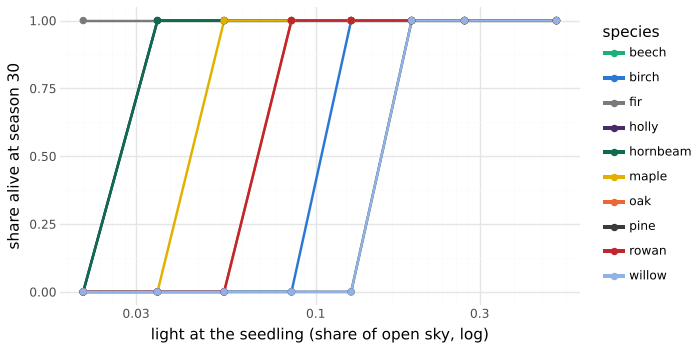
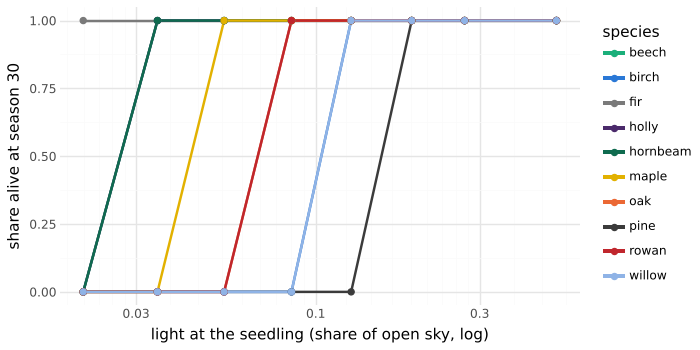
Check the M25 tolerance scores against Appendix A; willow to birch's band
Niinemets & Valladares's Appendix A (supplied by the user) confirms pine, rowan, maple and hornbeam,
but scores goat willow 2.16, just above birch's 2.03, where the model had it below. Willow now
survives birch's 13%. That let hornbeam outgrow beech in the mixed wood, against its lower score
(3.97 against 4.56), so its leaves now cost a little more than beech's. The mixed-wood and clearing
tests sum over six seeds, since single runs vary widely.

Claude-Session: https://claude.ai/code/session_01WY2dARdXcUqS9Uigs6Gdgt

diff --git a/src/core/flora.test.ts b/src/core/flora.test.ts
@@ -6,6 +6,7 @@ import { presetParams } from "./presets.ts";
 import { World } from "./world.ts";
 
 const SEEDS = [1, 2, 3];
+const SIX = [1, 2, 3, 4, 5, 6];
 const mean = (a: number[]) => a.reduce((s, x) => s + x, 0) / a.length;
 
 /** The woodland's growth rules without stand dynamics or storms (oakOpen's), for `trees`. */
@@ -181,11 +182,15 @@ describe("calibrated species (M19)", () => {
 });
 
 describe("the M25 species", () => {
-  it("orders shade tolerance pine, willow < rowan < maple < holly, hornbeam", () => {
-    // ≈ 13% of the sky: rowan waits, the pioneers starve (Pinus and Salix score lowest).
+  it("orders shade tolerance pine < willow < rowan < maple < holly, hornbeam", () => {
+    // Niinemets & Valladares 2006: pine 1.67, willow 2.16, rowan 2.73, maple 3.18, holly 3.86,
+    // hornbeam 3.97. At ≈ 13% of the sky willow and rowan wait, as birch does; pine starves.
     expect(shadeHouse("rowan", 3.3).alive).toBe(3);
-    expect(shadeHouse("willow", 3.3).alive).toBe(0);
+    expect(shadeHouse("willow", 3.3).alive).toBe(3);
     expect(shadeHouse("pine", 3.3).alive).toBe(0);
+    // ≈ 8%: rowan still lives; willow, a pioneer, does not.
+    expect(shadeHouse("rowan", 4).alive).toBe(3);
+    expect(shadeHouse("willow", 4).alive).toBe(0);
     // ≈ 5%: field maple, mid-tolerant, lives; rowan does not.
     expect(shadeHouse("maple", 4.8).alive).toBe(3);
     expect(shadeHouse("rowan", 4.8).alive).toBe(0);
@@ -226,6 +231,9 @@ describe("the M25 species", () => {
   });
 
   it("lets the mixed wood's pioneers give way to beech, with holly and hornbeam beneath", () => {
+    // Totals over six seeds: single runs vary widely (one grows no beech, another keeps its
+    // pioneers in storm gaps). Measured: birch and willow 19 canopy trees at season 50, 6 at 400;
+    // beech 13 and hornbeam 9 at 400.
     const canopy = (world: World) =>
       world.trees.filter((t) => t.alive && treeMetrics(t, world).height >= 30);
     const of = (trees: World["trees"], sp: string[]) =>
@@ -233,32 +241,32 @@ describe("the M25 species", () => {
     let early = 0;
     let late = 0;
     let beech = 0;
+    let hornbeam = 0;
     let shadeBearers = 0;
-    for (const seed of SEEDS) {
+    for (const seed of SIX) {
       const world = new World(presetParams("mixedWood", seed));
       world.run(50);
       early += of(canopy(world), ["birch", "willow"]);
-      world.run(300);
+      world.run(350);
       const trees = canopy(world);
       late += of(trees, ["birch", "willow"]);
       beech += of(trees, ["beech"]);
+      hornbeam += of(trees, ["hornbeam"]);
       shadeBearers += of(
         world.trees.filter((t) => t.alive),
         ["holly", "hornbeam"],
       );
     }
-    // Measured (10 seeds, with seed rain): birch and willow 2.8 canopy trees a run at season 50,
-    // 0.1 at 350; beech 3.1 at 350, the most of any species; holly and hornbeam 6.8 live trees.
-    expect(late).toBeLessThan(0.4 * early);
-    expect(beech).toBeGreaterThanOrEqual(SEEDS.length);
-    expect(shadeBearers).toBeGreaterThanOrEqual(2 * SEEDS.length);
-  });
+    expect(late).toBeLessThan(0.5 * early);
+    expect(beech).toBeGreaterThan(hornbeam);
+    expect(shadeBearers).toBeGreaterThanOrEqual(2 * SIX.length);
+  }, 90_000);
 
   it("brings goat willow back to a clearing only through seed rain (ADR 0018)", () => {
     // An old mixed wood, a 60-cell clearing felled at season 300, then 40 seasons. Measured
-    // (6 seeds): no willow in any clearing without rain, 1–2 in every one with it.
+    // (six seeds): 9 willows in all with rain, in 4 of the 6 clearings; none without.
     const willows = (rain: boolean) =>
-      SEEDS.map((seed) => {
+      SIX.reduce((sum, seed) => {
         const params = presetParams("mixedWood", seed);
         if (!rain)
           for (const sp of Object.values(params.species ?? {}))
@@ -268,11 +276,14 @@ describe("the M25 species", () => {
         for (const t of world.trees)
           if (t.alive && t.rootX >= 60 && t.rootX < 120) world.removeTree(t.id);
         world.run(40);
-        return world.trees.filter(
-          (t) => t.alive && t.rootX >= 55 && t.rootX < 125 && t.species === "willow",
-        ).length;
-      });
-    for (const n of willows(false)) expect(n).toBe(0);
-    for (const n of willows(true)) expect(n).toBeGreaterThanOrEqual(1);
-  });
+        return (
+          sum +
+          world.trees.filter(
+            (t) => t.alive && t.rootX >= 55 && t.rootX < 125 && t.species === "willow",
+          ).length
+        );
+      }, 0);
+    expect(willows(false)).toBe(0);
+    expect(willows(true)).toBeGreaterThanOrEqual(4);
+  }, 120_000);
 });

diff --git a/src/core/flora.ts b/src/core/flora.ts
@@ -18,9 +18,10 @@
  *   young; oak and beech make few heavy seeds that land close, and beech establishes in shade.
  *
  * M25 (docs/experiments/2026-10-28-m25-species.md) adds hornbeam, field maple, holly, rowan and
- * goat willow, fitted the same way, and Scots pine. Their survival lights run from willow and pine
- * (≈ 19%) through rowan (8%) and maple (5%) to hornbeam and holly (3%), in Niinemets & Valladares's
- * order; holly and hornbeam cast the deepest shade, pine and willow the lightest.
+ * goat willow, fitted the same way, and Scots pine. Niinemets & Valladares score them pine 1.67,
+ * willow 2.16, rowan 2.73, maple 3.18, holly 3.86 and hornbeam 3.97; their survival lights run
+ * from pine (19%) through willow (13%, birch's), rowan (8%) and maple (5%) to hornbeam and holly
+ * (3%). Holly and hornbeam cast the deepest shade, pine and willow the lightest.
  *
  * Labels are the field guide's: a common name, a Latin name and the leaf style the page draws.
  * Fir and pine are lab species; the home forest (`mixedWood`) mixes the other nine.
@@ -147,7 +148,8 @@ export const FLORA = {
     latin: "Carpinus betulus",
     leaf: "hornbeam",
     c5: { enabled: true, T: 0.01, Trel: 0.02 },
-    r1: { mf: 0.04, Lh: 50 },
+    // Costlier leaves than beech's: less tolerant (3.97 against 4.56), so beech outgrows it in shade.
+    r1: { mf: 0.045, Lh: 50 },
     // Troll's model, like beech (Hallé et al. 1978), with weaker apical control.
     r2: {
       enabled: true,
@@ -267,7 +269,8 @@ export const FLORA = {
       ],
     },
     r4: { qRel: 0.3 },
-    r6: { enabled: true, qMin: 0.15, leafArea: 1.5 },
+    // Survives birch's shade, no deeper: Niinemets & Valladares score it 2.16, birch 2.03.
+    r6: { enabled: true, qMin: 0.12, leafArea: 1.5 },
     // Tiny plumed seeds blow far but need bare, lit ground; a short life. Seed rain (ADR 0018)
     // brings willow back to clearings after it has died out in the wood.
     o4: { cSeed: 1.5, d: 60, qEst: 0.3, pEst: 0.3, m0: 0.012, rain: 1 },

diff --git a/docs/experiments/2026-10-28-m25-species.md b/docs/experiments/2026-10-28-m25-species.md
@@ -4,7 +4,7 @@
 Can six more species be fitted the M19 way, from per-tree patches alone (ADR 0016)? The six are hornbeam, field maple, holly, rowan and goat willow for the home forest, and Scots pine for the lab. Then, with no scripting, does a wood of nine of them sort itself the way mixed lowland woods do?
 
 Expected beforehand:
-- **Shade survival order:** pine ≈ willow < birch < oak ≈ rowan < maple < hornbeam ≈ holly ≈ beech.
+- **Shade survival order:** pine < birch ≈ willow < oak ≈ rowan < maple < holly ≈ hornbeam < beech.
 - **Stand floors:** deep shade under hornbeam and holly, light shade under pine and willow.
 - **Form:** a broad, low willow; a round maple; a conical holly; steep rowan limbs; pine with a high crown in a stand.
 - **The mixed wood:** pioneers (birch, willow) lead early and fade. Beech takes the canopy, with hornbeam beside it. Holly, rowan and maple hold on beneath and in gaps.
@@ -13,7 +13,7 @@ Expected beforehand:
 
 | Pattern | Target | Source |
 |---|---|---|
-| Shade-tolerance score (0–5) | Pinus sylvestris ≈ 1.7, Salix caprea ≈ 2, Betula 2.03, Quercus robur 2.45, Sorbus aucuparia ≈ 2.7, Acer campestre ≈ 3.2, Carpinus betulus ≈ 4, Ilex aquifolium ≈ 4, Fagus 4.56, Abies 4.6 | Niinemets & Valladares 2006, Appendix A. The new species' values are approximate: the appendix (esapubs.org) could not be reached from this session. **Verify before quoting.** |
+| Shade-tolerance score (1–5, ± SE) | Pinus sylvestris 1.67 ± 0.33, Betula pendula 2.03 ± 0.09, Salix caprea 2.16 ± 0.08, Quercus robur 2.45 ± 0.28, Sorbus aucuparia 2.73 ± 0.21, Acer campestre 3.18 ± 0.14, Ilex aquifolium 3.86 ± 0.19, Carpinus betulus 3.97 ± 0.12, Fagus sylvatica 4.56 ± 0.11, Abies alba 4.6 ± 0.06 | Niinemets & Valladares 2006, Appendix A (Ecological Archives M076-020-A1, supplied by the user) |
 | Holly seedlings | tolerate moderate shade, not deep shade: high mortality at 1% light, best survival at 12% (continental Spain; a facultative understorey tree in oceanic climates) | [Valladares et al. 2005](https://consensus.app/papers/details/b57cf88dba3b59e6bcdc75ade4c09517/?utm_source=claude_desktop) |
 | Hornbeam against beech and oak | after storm gaps, beech and hornbeam saplings outnumber oak's about 9 to 1 | [Dietz et al. 2022](https://consensus.app/papers/details/38777eeceab856b89abbad1009ca8e63/?utm_source=claude_desktop) |
 | Hornbeam against beech | hornbeam grows far more slowly than beech and is the weaker competitor; it is abundant in advance regeneration but recruits poorly to the canopy | [Szwagrzyk et al. 2012](https://consensus.app/papers/details/df480fb3180f5d3399da47b94410b17c/?utm_source=claude_desktop) |
@@ -36,7 +36,8 @@ The settings are M19's (`oakOpen` principles, 5 seeds each): a lone tree on 160 
 
   | Species | Q_ss |
   |---|---|
-  | willow, pine | 0.15 |
+  | pine | 0.15 |
+  | willow | 0.12 (birch's) |
   | rowan | 0.06 |
   | maple | 0.045 |
   | hornbeam, holly | 0.03 |
@@ -46,7 +47,7 @@ The settings are M19's (`oakOpen` principles, 5 seeds each): a lone tree on 160 
   - pine 3.8 and 0.09;
   - rowan 3.6 and 0.08;
   - maple 3.2 and 0.05;
-  - hornbeam 3 and 0.04;
+  - hornbeam 3 and 0.045 (beech's m_f is 0.035);
   - holly 2.6 and 0.03: evergreen leaves live several years, so their cost each season is low.
 - **Height,** through L_h: willow 30, holly 25 (with a low α), rowan 38, maple 45, hornbeam 50, pine 60. The small trees also mature small (`r1.maturity` 20–30, against the woodland's 40), so they seed.
 - **Form:**
@@ -70,11 +71,11 @@ The settings are M19's (`oakOpen` principles, 5 seeds each): a lone tree on 160 
 | Oak | 75 | 1.66 | 42 | 56° | 75 | 75 | 0.38 | 6% | 8% |
 | Beech | 84 | 1.06 | 40 | 57° | 79 | 68 | 0.47 | 3.4% | 3% |
 | Fir | 110 | 0.41 | 49 | 75° | 84 | 65 | 0.76 | 6% | 2% |
-| **Hornbeam** | 62 | 1.46 | 37 | 54° | 64 | 61 | 0.31 | 2.4% | 3% |
+| **Hornbeam** | 61 | 1.47 | 37 | 54° | 63 | 61 | 0.26 | 2.7% | 3% |
 | **Field maple** | 63 | 1.02 | 58 | 44° | 56 | 70 | 0.53 | 4.0% | 5% |
 | **Holly** | 63 | 0.49 | 55 | 65° | 54 | 62 | 0.76 | 2.4% | 3% |
 | **Rowan** | 65 | 0.73 | 68 | 39° | 54 | 74 | 0.60 | 10% | 8% |
-| **Goat willow** | 44 | 2.31 | 29 | 53° | 43 | 40 | 0.48 | 13% | 19% |
+| **Goat willow** | 40 | 2.32 | 27 | 51° | 44 | 42 | 0.47 | 12% | 13% |
 | **Scots pine** | 75 | 0.86 | 39 | 71° | 67 | 54 | 0.37 | 17% | 19% |
 
 (Floors are from 3 seeds, the scratch harness that `flora.test.ts` mirrors; everything else is from 5.)
@@ -85,8 +86,8 @@ The settings are M19's (`oakOpen` principles, 5 seeds each): a lone tree on 160 
 
   | Lowest light all seedlings survive | Species |
   |---|---|
-  | 19% | pine, willow |
-  | 13% | birch |
+  | 19% | pine |
+  | 13% | birch, willow |
   | 8% | rowan, oak |
   | 5% | maple |
   | 3% | hornbeam, holly, beech |
@@ -94,14 +95,14 @@ The settings are M19's (`oakOpen` principles, 5 seeds each): a lone tree on 160 
 
   Holly survives 3% but not 2%, in line with Valladares et al. (high mortality at 1%).
 - **Floors.**
-  - Hornbeam and holly cast the deepest shade of all (2.4%).
-  - Pine (17%) and willow (13%) let the most through, after birch (19%).
+  - Holly (2.4%) and hornbeam (2.7%) cast the deepest shade of all.
+  - Pine (17%) and willow (12%) let the most through, after birch (19%).
 - **Form.**
-  - Willow is the broadest tree (W/H 2.3) and the squattest (H/D 29).
+  - Willow is the broadest tree (W/H 2.3) and the squattest (H/D 27).
   - Holly is a narrow cone (W/H 0.49) that keeps three quarters of its stem in crown, even in a stand.
   - Maple is round (W/H 0.97), and rowan's limbs are the steepest (39°).
   - Pine stands lift their crowns (crown ratio 0.37), with whorled tiers at 71°.
-- **Size.** Willow is the smallest tree (44 cells, 11 m). Hornbeam, maple, holly and rowan reach 60–65 cells in the open at 60 seasons, and beech 84.
+- **Size.** Willow is the smallest tree (40 cells, 10 m). Hornbeam, maple, holly and rowan reach 60–65 cells in the open at 60 seasons, and beech 84.
 
 ![mixed wood](figures/2026-10-28-m25-mixed-wood.png)
 
@@ -109,35 +110,34 @@ The settings are M19's (`oakOpen` principles, 5 seeds each): a lone tree on 160 
 
 | Season | Beech | Birch | Hornbeam | Maple | Oak | Holly | Rowan | Willow |
 |---|---|---|---|---|---|---|---|---|
-| 50 | 0.8 | 2.2 | 0.8 | 1.0 | 0.6 | 0.4 | 0.8 | 0.8 |
-| 100 | 1.0 | 1.4 | 0.8 | 0.6 | 0.6 | 0.8 | 1.8 | 1.2 |
-| 200 | 2.6 | 1.8 | 1.6 | 0.4 | 0.6 | 0.8 | 0.6 | 0.4 |
-| 300 | 3.2 | 0.8 | 1.8 | 0.8 | 1.0 | 1.4 | 0.8 | 0.2 |
-| 400 | 3.2 | 0 | 1.8 | 0.2 | 0.8 | 1.2 | 0.2 | 0 |
+| 50 | 0.8 | 2.4 | 0.8 | 1.0 | 0.6 | 0.8 | 0.6 | 0.8 |
+| 100 | 0.8 | 1.8 | 0.8 | 0.8 | 0.6 | 0.6 | 0.8 | 0.6 |
+| 200 | 1.8 | 2.0 | 0.8 | 0.6 | 0.6 | 0.6 | 0.8 | 0.8 |
+| 300 | 2.2 | 0.6 | 1.2 | 1.4 | 0.8 | 1.4 | 0.6 | 0.8 |
+| 400 | 2.2 | 0.8 | 1.4 | 1.0 | 0.6 | 1.4 | 0.8 | 0.4 |
 
-(These are the numbers after the follow-ups below: maple's lighter crown and seed rain.)
+(These are the numbers after the follow-ups below. Single runs vary widely: over 6 seeds one grows no beech at all, and another keeps its pioneers to season 400.)
 
-- **Pioneers.** Birch leads for a century, and storm gaps keep it in the canopy to about season 300; by 400 it is gone. Goat willow holds a canopy tree or so to season 100, then lingers as small trees that seed rain brings into storm gaps.
+- **Pioneers.** Birch leads for a century, and storm gaps keep it in the canopy to about season 200; after that it hangs on at under one tree a run. Goat willow, once as shade-tolerant as birch (as its score says), keeps 0.4–0.8 small trees a run in storm gaps, fed by seed rain. Over 6 seeds, birch and willow fall from 19 canopy trees at season 50 to 6 at 400.
 - **Beech** rises steadily to the most canopy trees, with 3 more per run coming up beneath at season 400.
-- **Hornbeam** rises beside it, as in oak–hornbeam–beech woods. Its saplings are always in the understorey (Dietz et al. 2022).
+- **Hornbeam** rises beside it, as in oak–hornbeam–beech woods, but stays behind beech (13 canopy trees to 9 at season 400 over 6 seeds; Szwagrzyk et al. 2012). Its saplings are always in the understorey (Dietz et al. 2022).
 - **Field maple** holds 0.2–1 canopy trees, with saplings beneath. Before its follow-up it held 1.4–1.6, as many as hornbeam.
 - **Oak** holds on at about one tree a run. Storm gaps let it back in, but its saplings rarely reach the canopy.
 - **Holly and rowan** persist as small trees, in the canopy count and below it. Holly gains slowly, to 1.2 canopy and 1.8 smaller trees per run at season 400. Holly's numbers hinged on its seed cost: at c_seed 4 it overran the wood (3 canopy and 6 understorey trees a run by season 400), so the dioecy correction matters.
 
 ## Deviations and caveats
-- **The new species' tolerance scores are approximate** (see the targets). The ordering is standard, but the numbers should be checked against Niinemets & Valladares's appendix.
 - **Field maple's buds are distichous in the model.** With opposite buds on every axis, which doubles the buds in the plane, its floor was 2.5%, darker than beech's. A decussate pair turning 90° puts one bud a node in the plane, as distichous does.
 - **Rowan stands are slender (H/D 74),** and so is the open-grown rowan (68). Rowan is a slender tree, but the open value is likely high.
 - **Pine is a lab species,** calibrated only in the open and in pure stands. Open-grown, it reads as a young pine (conical, whorled), not the flat-topped old pine of the Caledonian forest. That would need R2's late loss of apical control over more seasons.
 
 ## Conclusion
 - The six new species, again from patches alone, reproduce:
-  - the published shade-tolerance order;
+  - the published shade-tolerance order (Appendix A);
   - holly's tolerance band;
   - deep shade under hornbeam and holly, light shade under pine and willow;
   - each species' characteristic form.
 - In the mixed wood, pioneers fade, beech and hornbeam rise, and holly, rowan and maple persist beneath. That is the composition of an old lowland wood, and it emerges without scripting.
-- **Follow-ups:** check the tolerance scores against the appendix (still open, below).
+- **Follow-ups:** none open; see the addendum.
 
 ## Addendum: the follow-ups (2026-10-28, same day)
 - **Field maple's shade.**
@@ -146,7 +146,12 @@ The settings are M19's (`oakOpen` principles, 5 seeds each): a lone tree on 160 
   - Shade survival is still 5%, and the crown still round (W/H 1.02).
   - Lowering α alone did not lighten the floor (3.2%).
 - **Willow's return** (ADR 0018). O4 seeds came only from parents in the world, so once willow died out nothing could bring it back. Seed rain (`o4.rain`) adds seeds from beyond the world: willow 1 and birch 0.2 per 100 cells a season, establishing by the usual rule.
-  - **The clearing test:** fell every tree rooted in a 60-cell patch at season 300, then grow 40 seasons. Over 6 seeds, no clearing gets a willow without rain; with it, every clearing gets 1–2 (`flora.test.ts`).
-  - **The closed wood** is almost unchanged (10 seeds): birch falls from 2.0 canopy trees a run at season 50 to 0.1 at 350, and willow from 0.8 to 0.
+  - **The clearing test:** fell every tree rooted in a 60-cell patch at season 300, then grow 40 seasons. Over 6 seeds, no clearing gets a willow without rain; with it they get 9 in all, in 4 of the 6 (`flora.test.ts`).
+  - **The closed wood:** with willow's corrected tolerance (below), willow keeps a few small trees in storm gaps.
   - **Birch's rate:** at 0.5 it kept birch in the canopy past season 350.
-- **The tolerance scores are still unverified.** Neither the ESA archive nor the publisher's supplement is reachable from the session, and a web search turned up only neighbouring species (small-leaved lime 4.18, Norway maple 4.2).
+- **The tolerance scores, checked** against Appendix A, which the user supplied:
+  - Pine, rowan, maple and hornbeam matched the values assumed.
+  - **Goat willow is 2.16 ± 0.08,** a shade *more* tolerant than birch (2.03), where the model had it less (19% survival light against birch's 13%). Its Q_ss is now birch's, 0.12, and it survives 13%, not 8%.
+  - **Holly is 3.86 ± 0.19,** just under hornbeam's 3.97; both stay at 3%.
+- **Beech against hornbeam.** With willow corrected, hornbeam outgrew beech in the 10-seed mixed wood (3.2 canopy trees against 1.6). That contradicts hornbeam's lower score (3.97 against 4.56) and Szwagrzyk et al. Hornbeam's leaves now cost a little more than beech's (m_f 0.045 against 0.035): it still survives 3%, but beech leads again (2.5 against 1.7).
+- **Tests** now total over six seeds; single seeds vary too widely for per-seed checks. The suite takes 77 s, against 51 s.

diff --git a/docs/ROADMAP.md b/docs/ROADMAP.md
@@ -47,7 +47,7 @@ Three tracks: **A** performance (smooth on phones, bigger worlds, fast first pai
 | M22 | B | The §8 ablations as tests (C3 equal sharing, ξ = 0, R1, R6, R4, pooled light) and a pooled-light mode (`c2.model: "pooled"`) | — | `ablation.test.ts`; [note](experiments/2026-10-28-m22-ablations.md) | ✅ 2026-10-28 |
 | M23 | C | Leaves at a true scale and a silhouette per species, drawn density matching simulated leaf area; the time-lapse intro back on the home page (from the chosen seeds), with grown forests for reduced motion | Each species recognisable by its leaf | Frame bench (M15) holds | ✅ 2026-10-28 (releases with M22 as garden-v0.9.0): an outline per species, true-scale lengths, a smaller minimum size, the time-lapse back from the chosen seeds |
 | M24 | C | A wide plate: it breaks out of the text column on wide screens, and landscape worlds take 0.7 of the aspect's width, so trees draw about twice as large on a laptop. Leaf studies on the field card (`leafStudy`) | The forest fills a laptop; a card shows its species' leaf | `leaf-styles.test.ts` | ✅ 2026-10-28, live as garden-v0.10.0 (PR #17; site PR #4) |
-| M25 | B | New species: holly, rowan, hornbeam, goat willow, field maple for the home forest; Scots pine for the lab | A richer mixed wood | Calibration note per species; succession rerun | ✅ 2026-10-28 ([note](experiments/2026-10-28-m25-species.md)): the six calibrated in `flora.ts`; `mixedWood` is the home forest, `pineWood` a lab preset; leaf styles and palettes; `flora.test.ts` (shade order, floors and crowns, form, the mixed wood's succession). Live as garden-v0.11.0 (PR #18; site PR #5). Follow-ups: field maple's lighter shade (floor 4.0%); seed rain (ADR 0018) brings willow back to clearings; the tolerance scores await the user |
+| M25 | B | New species: holly, rowan, hornbeam, goat willow, field maple for the home forest; Scots pine for the lab | A richer mixed wood | Calibration note per species; succession rerun | ✅ 2026-10-28 ([note](experiments/2026-10-28-m25-species.md)): the six calibrated in `flora.ts`; `mixedWood` is the home forest, `pineWood` a lab preset; leaf styles and palettes; `flora.test.ts` (shade order, floors and crowns, form, the mixed wood's succession). Live as garden-v0.11.0 (PR #18; site PR #5). Follow-ups: field maple's lighter shade (floor 4.0%); seed rain (ADR 0018) brings willow back to clearings; the tolerance scores checked against Appendix A (willow moved to birch's band; hornbeam's leaves made costlier than beech's) |
 
 ### Reading before each milestone
 From the [2026-10-27 literature review](research/2026-10-27-literature-review.md) §5.

diff --git a/docs/STATUS.md b/docs/STATUS.md
@@ -2,7 +2,7 @@
 
 _Last updated: 2026-10-28 (M25)_
 
-**M25 is live** as garden-v0.11.0. Its follow-ups (field maple's lighter shade, seed rain per ADR 0018) are on `claude/gallant-brown-5k4g33`, to release as garden-v0.12.0 after the user's preview.
+**M25 is live** as garden-v0.11.0. Its follow-ups are on `claude/gallant-brown-5k4g33`, to release as garden-v0.12.0 after the user's preview: field maple's lighter shade, seed rain (ADR 0018), and tolerance scores checked against Appendix A.
 
 ## Works
 - **Core:** C1–C6, R1–R6, O2 and O4 (ADRs 0005–0013); the sky sweep with open or periodic sides; golden hashes. `World.discardDead` for long page runs.
@@ -16,9 +16,8 @@ _Last updated: 2026-10-28 (M25)_
 
 ## Next
 1. **Release garden-v0.12.0** on the user's go-ahead: merge the PR, the user pushes the tag, sync the site and merge it.
-2. **Tolerance scores:** check the new species' values against Niinemets & Valladares's appendix. esapubs.org and the publisher are blocked here, so the user must paste them or allow the domain.
-3. **The user:** an hour's soak on a phone (heat, memory); the site's `TODO(Ed)` items.
-4. **Ideas:** a magnifying loupe over the plate (true-scale leaves); rooting in windthrow.
+2. **The user:** an hour's soak on a phone (heat, memory); the site's `TODO(Ed)` items.
+3. **Ideas:** a magnifying loupe over the plate (true-scale leaves); rooting in windthrow.
 
 ## Open questions (ask when the milestone comes up)
 - None open.

diff --git a/docs/devlog.md b/docs/devlog.md
@@ -20,10 +20,13 @@ Newest first. One entry per session or milestone: what changed, why, surprises, 
   - the closed wood is almost unchanged.
   - **Surprise:** birch at 0.5 kept birch in the canopy past season 350.
   - The lab's O4 folder has a slider for it.
-- **Tolerance scores:** still unverified. The appendix and the publisher's supplement are unreachable from the session; a web search found only neighbouring species.
+- **Tolerance scores:** checked against Appendix A (the user supplied it). Pine, rowan, maple and hornbeam matched.
+  - **Goat willow** scores 2.16, a shade above birch's 2.03, where the model had it below. Its Q_ss is now birch's (0.12), and it survives 13%.
+  - **Beech against hornbeam:** that let hornbeam outgrow beech in the mixed wood. Hornbeam's leaves now cost a little more than beech's (m_f 0.045), as its lower score (3.97 against 4.56) suggests, and beech leads again.
 - **Checks:**
   - The daily seeds 9, 10 and 12 still look right.
   - Garden: 55.5 kB gzip. Tests: 219 pass (a seed-rain unit test and the clearing test are new); goldens unchanged.
+  - **Six-seed totals:** the mixed-wood and clearing tests now sum over six seeds, since single seeds vary too widely (one grows no beech). The suite takes 77 s, against 51 s.
 
 ## 2026-10-28: garden-v0.11.0 live
 

diff --git a/docs/decisions/0018-seed-rain.md b/docs/decisions/0018-seed-rain.md
@@ -18,6 +18,6 @@ The user agreed (2026-10-28) to extend O4 with **seed rain**:
 - **Values:** in `flora.ts`, goat willow 1 and birch 0.2. Willow's Q_est of 0.3 means rain takes only in large gaps.
 
 ## Consequences
-- **Clearings come back:** a 60-cell clearing felled at season 300 gets 1–2 goat willows in every seed tested, against none without rain (`flora.test.ts`). The closed wood is almost unchanged: willow stays out of the canopy, and birch still fades by season 350.
+- **Clearings come back:** 60-cell clearings felled at season 300 get 9 goat willows over 6 seeds, against none without rain (`flora.test.ts`). In the closed wood, willow keeps a few small trees in storm gaps, and birch fades to under one canopy tree a run.
 - **A world now has an outside,** but only for seeds; light and wind still stop at the world's sides.
 - **Revisit** if rain should depend on the landscape around the world (a seed source's distance), or vary from year to year (mast years).
